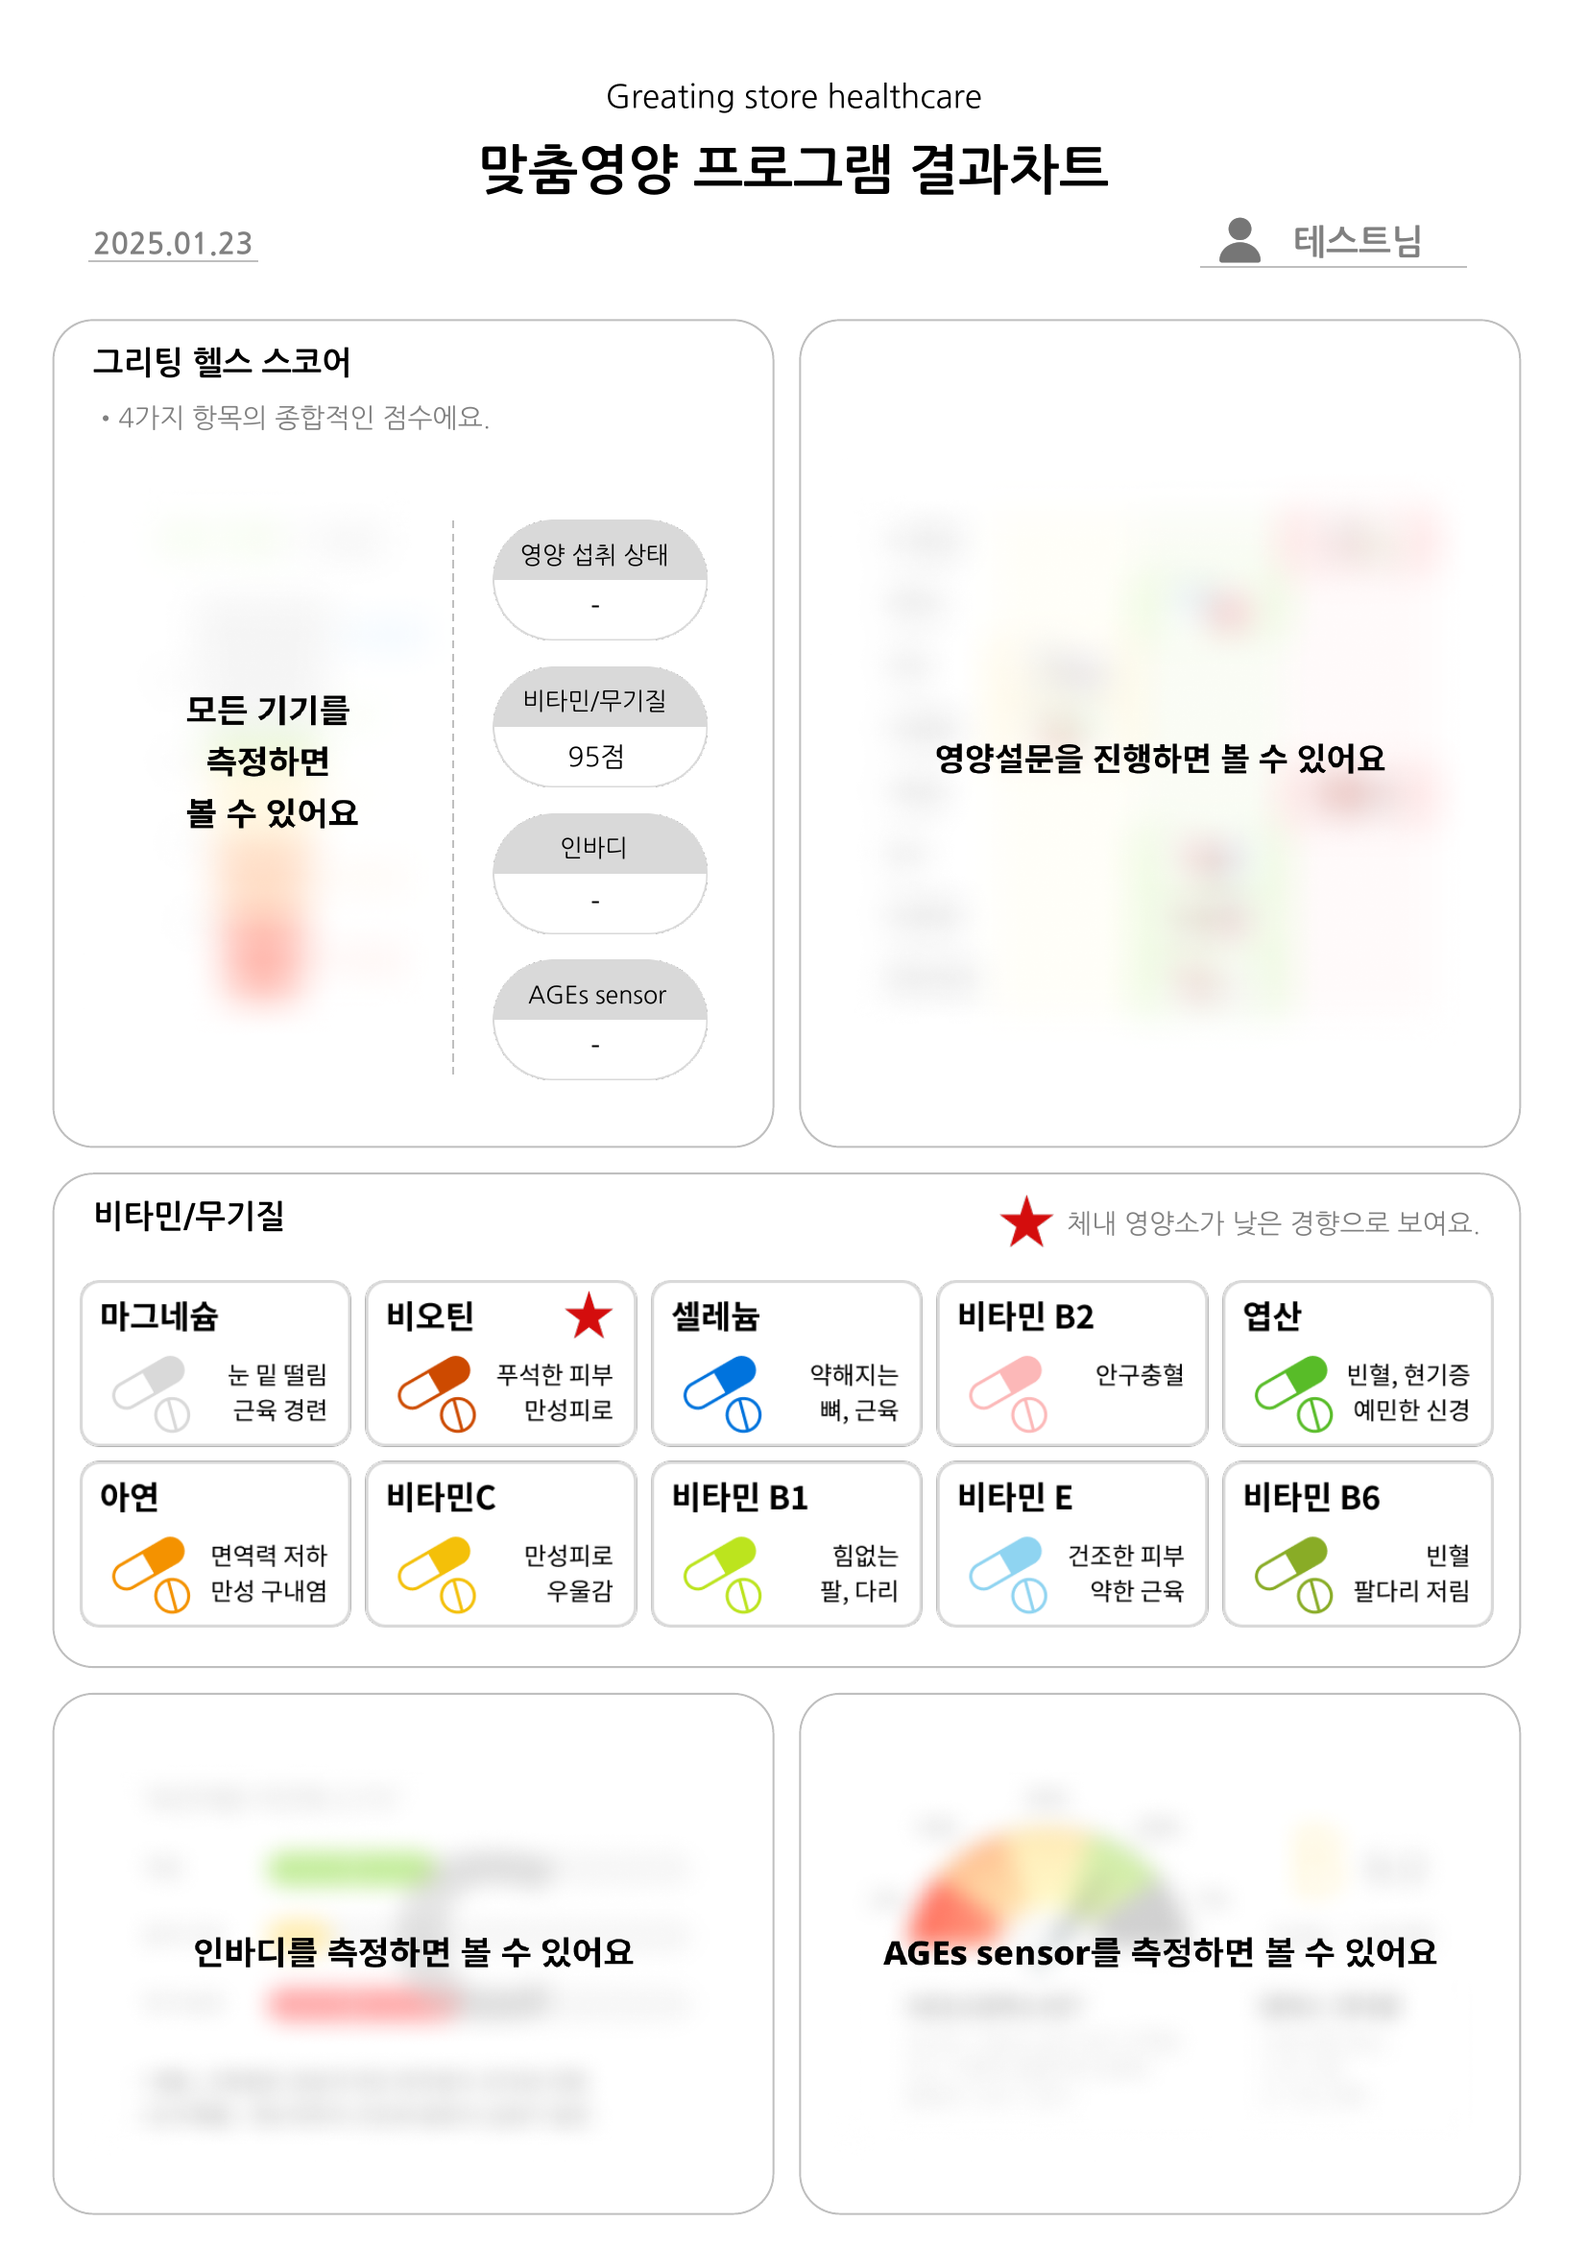
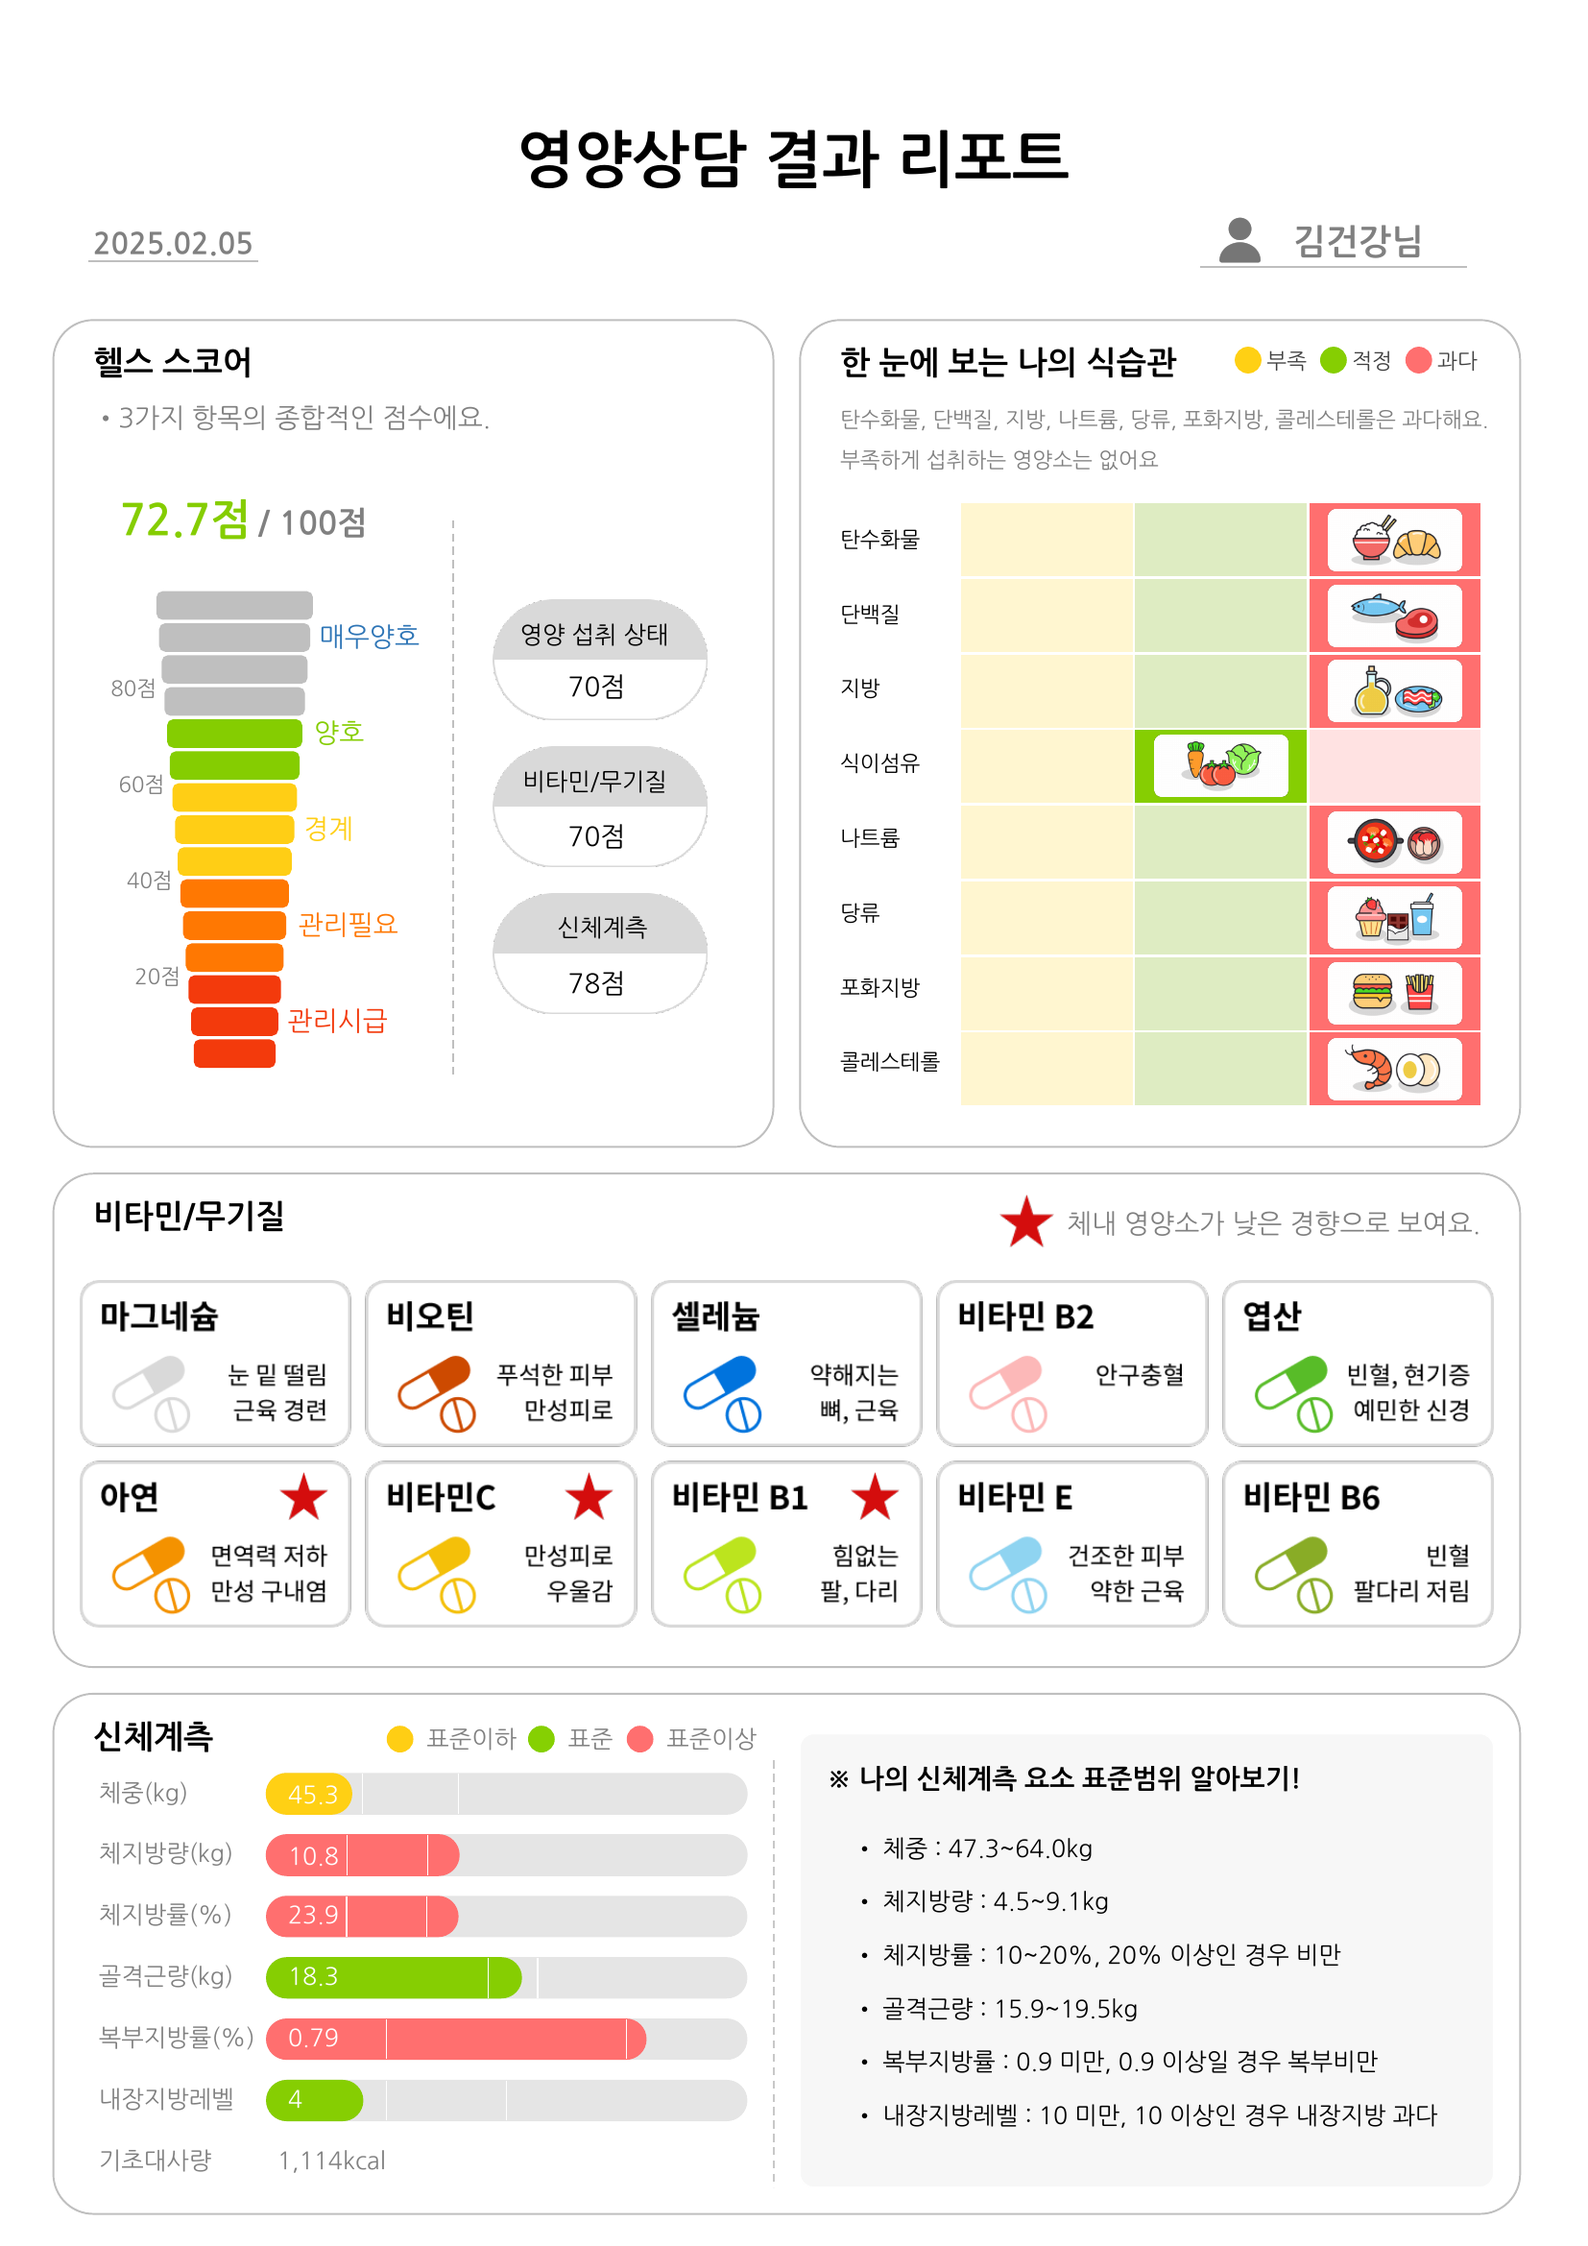
FS인바디 그래프 방식 재변경(25.02.05)

diff --git a/createpdf.py b/createpdf.py
@@ -1290,6 +1290,70 @@ def draw_inbody_home(c,Inbody,UserHeight,Gender,height):
     c.line(172, height - 680, 172, height - 665)
     c.line(172, height - 703, 172, height - 688)  
 
+#인바디 그래프 그리기(인바디 가정용_그래프 변화_02.05 그래프 산출방식 수정)
+def draw_inbody_home2(c,Inbody,UserHeight,Gender,height):
+    if Gender=="남성":
+        SWeight=((UserHeight*UserHeight)/10000)*22
+        fatMax=0.2*Inbody.Weight
+        fatMin=0.1*Inbody.Weight
+    elif Gender=="여성":
+        SWeight=((UserHeight*UserHeight)/10000)*21
+        fatMax=0.28*Inbody.Weight
+        fatMin=0.18*Inbody.Weight
+
+    weightP=Inbody.Weight/SWeight*100
+
+    c.setFillColorRGB(0.9, 0.9, 0.9)
+    c.setStrokeColorRGB(0.9, 0.9, 0.9)
+    c.roundRect(100,height-680, 180, 15,7.5,fill=1)
+    c.roundRect(100,height-703, 180, 15,7.5,fill=1)
+
+    weightW=max(0,180*(weightP-55)/150)
+
+    if weightP<=85 :
+        c.setFillColorRGB(1,208/255,20/255)
+        c.setStrokeColorRGB(1,208/255,20/255)
+        c.roundRect(100,height-680, weightW, 15,7.5,fill=1)
+
+    if 85<weightP<115 :
+        c.setFillColorRGB(134/255,206/255,2/255)
+        c.setStrokeColorRGB(134/255,206/255,2/255)
+        c.roundRect(100,height-680, weightW, 15,7.5,fill=1)
+
+    if 115<=weightP :
+        c.setFillColorRGB(1,111/255,111/255)
+        c.setStrokeColorRGB(1,111/255,111/255)
+        c.roundRect(100,height-680, weightW, 15,7.5,fill=1)   
+    
+    fatW=max(0,180*(Inbody.BodyFat)/(Inbody.Weight-Inbody.SkeletalMuscle))
+
+    if Inbody.BodyFat<=fatMin :
+        c.setFillColorRGB(134/255,206/255,2/255)
+        c.setStrokeColorRGB(134/255,206/255,2/255)
+        c.roundRect(100,height-703, fatW, 15,7.5,fill=1)
+
+    if fatMin<Inbody.BodyFat<fatMax :
+        c.setFillColorRGB(134/255,206/255,2/255)
+        c.setStrokeColorRGB(134/255,206/255,2/255)
+        c.roundRect(100,height-703, fatW, 15,7.5,fill=1)
+
+    if fatMax<=Inbody.BodyFat :
+        c.setFillColorRGB(1,111/255,111/255)
+        c.setStrokeColorRGB(1,111/255,111/255)
+        c.roundRect(100,height-703, fatW, 15,7.5,fill=1)       
+
+    c.setFillColorRGB(1,1,1)
+    c.drawString(108,height-676,str(Inbody.Weight))    
+    c.drawString(108,height-699,str(Inbody.BodyFat))
+
+    c.setLineWidth(0.5)
+    c.setStrokeColorRGB(1,1,1)
+    c.line(136, height - 680, 136, height - 665)
+    c.line(((fatMin*180)/(Inbody.Weight-Inbody.SkeletalMuscle))+100, height - 703, ((fatMin*180)/(Inbody.Weight-Inbody.SkeletalMuscle))+100, height - 688)
+    
+    c.line(172, height - 680, 172, height - 665)
+    c.line(((fatMax*180)/(Inbody.Weight-Inbody.SkeletalMuscle))+100, height - 703, ((fatMax*180)/(Inbody.Weight-Inbody.SkeletalMuscle))+100, height - 688)      
+
 #인바디 그래프 그리기(270이하 추가 그래프_체지방률,골격근량,복부지방률,내장지방레벨)
 def draw_inbody_small_adddetail(c,Inbody,UserHeight,Gender,height):
     BFR=Inbody.BodyFatRatio
@@ -1300,13 +1364,13 @@ def draw_inbody_small_adddetail(c,Inbody,UserHeight,Gender,height):
     if Gender=="남성":
         BFRmax=20
         BFRmin=10
-        SMMmax=8*UserHeight*UserHeight/10000
-        SMMmin=7*UserHeight*UserHeight/10000
+        SMMmax=7.7*UserHeight*UserHeight/10000
+        SMMmin=6.3*UserHeight*UserHeight/10000
     else:
         BFRmax=28
         BFRmin=18
-        SMMmax=6.7*UserHeight*UserHeight/10000
-        SMMmin=5.7*UserHeight*UserHeight/10000    
+        SMMmax=6.27*UserHeight*UserHeight/10000
+        SMMmin=5.13*UserHeight*UserHeight/10000    
     WHRmax=75
     WHRmin=25
     VFLmax=10
@@ -1329,8 +1393,8 @@ def draw_inbody_small_adddetail(c,Inbody,UserHeight,Gender,height):
     Red=(1,111/255,111/255)
 
     if BFR<BFRmin :
-        c.setFillColorRGB(*Yellow)
-        c.setStrokeColorRGB(*Yellow)
+        c.setFillColorRGB(*Green)
+        c.setStrokeColorRGB(*Green)
         c.roundRect(100,height-726, BFRwidth, 15,7.5,fill=1)
 
     if BFRmin<=BFR<=BFRmax :
@@ -1361,8 +1425,8 @@ def draw_inbody_small_adddetail(c,Inbody,UserHeight,Gender,height):
 
     
     if WHR<WHRmin :
-        c.setFillColorRGB(*Yellow)
-        c.setStrokeColorRGB(*Yellow)
+        c.setFillColorRGB(*Green)
+        c.setStrokeColorRGB(*Green)
         c.roundRect(100,height-772, WHRwidth, 15,7.5,fill=1)
 
     if WHRmin<=WHR<=WHRmax :
@@ -1520,7 +1584,7 @@ def set_product_cat(Gender,Vitastiq,Agesensor):
         ('면역력', immunS),
         ('근력', muscleS)
         ]
-        
+
         if Agesensor.Rating=="A" or Agesensor.Rating=="B" or Agesensor.Rating==None:
             sorted_variables = sorted(variables, key=lambda x: x[1]) # 오름차순 정렬 (07.09 4시 수정)
             print(sorted_variables)
@@ -2002,11 +2066,11 @@ def create_basic_pdf(Nutrition,Vitastiq,Inbody,Agesensor,Name,Gender,NutriD,Supp
             write_comment_inbodyhome(c,Inbody_cat,height) 
 
             c.setFillColorRGB(1,206/255,20/255)
-            c.circle(170,height-652,5,stroke=0,fill=1)
+            c.circle(150,height-652,5,stroke=0,fill=1)
             c.setFillColorRGB(134/255,208/255,2/255)
-            c.circle(210,height-652,5,stroke=0,fill=1)
+            c.circle(203,height-652,5,stroke=0,fill=1)
             c.setFillColorRGB(1,111/255,111/255)
-            c.circle(250,height-652,5,stroke=0,fill=1)
+            c.circle(240,height-652,5,stroke=0,fill=1)
 
         else:    
             c.drawString(35,height-655,"인바디")  
@@ -2026,9 +2090,9 @@ def create_basic_pdf(Nutrition,Vitastiq,Inbody,Agesensor,Name,Gender,NutriD,Supp
             draw_inbody_small(c,Inbody,Nutrition.UserHeight,Gender,height)
             draw_alpha(c,Inbody_cat,height)
         elif Store=="FS":  # 시작: -675 / 간격: 23
-            c.drawString(180,height-655,'부족')
-            c.drawString(220,height-655,'적정')
-            c.drawString(260,height-655,'과다')
+            c.drawString(160,height-655,'표준이하')
+            c.drawString(213,height-655,'표준')
+            c.drawString(250,height-655,'표준이상')
             c.drawString(37,height-675,'체중(kg)')
             c.drawString(37,height-698,'체지방량(kg)')
             c.drawString(37,height-721,'체지방률(%)')
@@ -2037,7 +2101,7 @@ def create_basic_pdf(Nutrition,Vitastiq,Inbody,Agesensor,Name,Gender,NutriD,Supp
             c.drawString(37,height-790,'내장지방레벨')
             c.drawString(37,height-813,'기초대사량')
             c.drawString(104,height-813,str(format(Inbody.BMR,','))+"kcal") 
-            draw_inbody_home(c,Inbody,Nutrition.UserHeight,Gender,height)
+            draw_inbody_home2(c,Inbody,Nutrition.UserHeight,Gender,height)
             draw_inbody_small_adddetail(c,Inbody,Nutrition.UserHeight,Gender,height)
         else:    
             c.drawString(37,height-705,'체중')
@@ -2049,21 +2113,29 @@ def create_basic_pdf(Nutrition,Vitastiq,Inbody,Agesensor,Name,Gender,NutriD,Supp
     #-------------- part5 Age sensor or Inbody --------------
     # FS용 분기 생성(24.12.12)
     if Store=="FS":
-        c.setFillColorRGB(0, 0, 0)
-        c.setFont(boldfont, 12)
-        c.drawString(300,height-655,"체형분석")
-
         c.setFillColorRGB(0.97, 0.97, 0.97)
-        c.roundRect(300,height-813,260,100,5,fill=1)
+        c.roundRect(300,height-820,260,170,5,fill=1)
 
         c.setFont(boldfont, 10)
         c.setFillColorRGB(0, 0, 0)
-        c.drawString(310,height-735,'※ 신체계측 결과 분석 기준')
+        c.drawString(310,height-670,'※ 나의 신체계측 요소 표준범위 알아보기!')
 
         c.setFont(mainfont, 9)
-        c.drawString(320,height-756,'• 체지방률 : 남성 15%, 여성 23% 이하일 경우 표준')
-        c.drawString(320,height-776,'• 복부지방률 : 남성 0.9, 여성 0.85 이상일 경우 복부비만')
-        c.drawString(320,height-796,'• 내장지방레벨 : 5~10일 경우 표준')
+
+        if Gender=="남성":
+            c.drawString(320,height-696,f'• 체중 : {round(Nutrition.UserHeight*Nutrition.UserHeight/10000*22*0.85,1)}~{round(Nutrition.UserHeight*Nutrition.UserHeight/10000*22*1.15,1)}kg') 
+            c.drawString(320,height-716,f'• 체지방량 : {round(Inbody.Weight*0.1,1)}~{round(Inbody.Weight*0.2,1)}kg')
+            c.drawString(320,height-736,'• 체지방률 : 10~20%, 20% 이상인 경우 비만')
+            c.drawString(320,height-756,f'• 골격근량 : {round(Nutrition.UserHeight*Nutrition.UserHeight/10000*6.3,1)}~{round(Nutrition.UserHeight*Nutrition.UserHeight/10000*7.7,1)}kg')
+            c.drawString(320,height-776,'• 복부지방률 : 0.9 미만, 0.9 이상일 경우 복부비만')
+        else:    
+            c.drawString(320,height-696,f'• 체중 : {round(Nutrition.UserHeight*Nutrition.UserHeight/10000*21*0.85,1)}~{round(Nutrition.UserHeight*Nutrition.UserHeight/10000*21*1.15,1)}kg') 
+            c.drawString(320,height-716,f'• 체지방량 : {round(Inbody.Weight*0.18,1)}~{round(Inbody.Weight*0.28,1)}kg')
+            c.drawString(320,height-736,'• 체지방률 : 18~28%, 28% 이상일 경우 비만')
+            c.drawString(320,height-756,f'• 골격근량 : {round(Nutrition.UserHeight*Nutrition.UserHeight/10000*5.13,1)}~{round(Nutrition.UserHeight*Nutrition.UserHeight/10000*6.27,1)}kg')
+            c.drawString(320,height-776,'• 복부지방률 : 0.85 미만, 0.85 이상일 경우 복부비만')
+            
+        c.drawString(320,height-796,'• 내장지방레벨 : 10 미만, 10 이상인 경우 내장지방 과다')
 
         # 인바디 영역 증가로 인한 영역 분리선
         c.setStrokeColorRGB(200/255,200/255,200/255)
@@ -2409,14 +2481,14 @@ def create_basic_pdf(Nutrition,Vitastiq,Inbody,Agesensor,Name,Gender,NutriD,Supp
 
 
 # PDF 생성 테스트용
-'''if __name__ == "__main__":
+if __name__ == "__main__":
     Nutri=Nutrition(EatScore=70, Carb="과다", Protein="과다", Fat="과다", Fiber="적정", Sodium="과다", Sugar="과다", SatFat="과다", Cholesterol="과다",UserHeight=159)
     Vita=Vitastiq(Unused=False,Biotin="", VitC="낮음", Mg="", VitB1="낮음", VitB2="", Zn="낮음", Se="", VitB6="", VitE="", Folate="")
     Inbo=Inbody(InbodyScore=78,Weight=45.3,BodyFat=10.8,FatFree=0,ApproWeight=0,WeightMax=0,MuscleMax=0,FatMax=0,Recomcal=0,SkeletalMuscle=18.3,BodyFatRatio=23.9,WaistHipRatio=0.79,VisceralFatLevel=4,BMR=1114)
     Age=Agesensor(Rating="B",Rank=34)
     NutriD=NutritionDetail(CarbH=324.3,CarbV=74.9,ProteinL=34.9,ProteinV=19,FatH=66.5,FatV=22.6,FiberL=23.9,FiberV=8,SodiumH=2300,SodiumV=774,SugarH=50,SugarV=20.6,SatFatH=15.5,SatFatV=3.7,CholesterolH=300,CholesterolV=78)
     Supple=Supplements(sup1="추천 영양제 1번",sup2="추천 영양제 2번",sup3="추천 영양제 3번",sup4="추천 영양제 4번",inter1="근력",inter2="소화기/장건강",inter3="면역력")
-    create_basic_pdf(Nutri,Vita,Inbo,Age,"김건강","여성",NutriD,Supple,"FS","활동적",24,'표준체중 허약형')'''
+    create_basic_pdf(Nutri,Vita,Inbo,Age,"김건강","남성",NutriD,Supple,"FS","활동적",24,'표준체중 허약형')
 
 # PDF 생성 테스트용2
 '''if __name__ == "__main__":
@@ -2429,11 +2501,11 @@ def create_basic_pdf(Nutrition,Vitastiq,Inbody,Agesensor,Name,Gender,NutriD,Supp
     create_basic_pdf(Nutri,Vita,Inbo,Age,"김건강","여성",NutriD,Supple,"FS","활동적",24,'과체중 비만형')'''    
 
 # PDF 생성 테스트용3
-if __name__ == "__main__":
+'''if __name__ == "__main__":
     Nutri=Nutrition(EatScore=70, Carb="과다", Protein="과다", Fat="과다", Fiber="적정", Sodium="과다", Sugar="과다", SatFat="과다", Cholesterol="과다",UserHeight=174)
     Vita=Vitastiq(Unused=False,Biotin="", VitC="낮음", Mg="", VitB1="낮음", VitB2="", Zn="낮음", Se="", VitB6="", VitE="", Folate="")
     Inbo=Inbody(InbodyScore=78,Weight=70.7,BodyFat=12.8,FatFree=0,ApproWeight=0,WeightMax=0,MuscleMax=0,FatMax=0,Recomcal=0,SkeletalMuscle=50.7,BodyFatRatio=32.8,WaistHipRatio=0.83,VisceralFatLevel=4,BMR=1620)
     Age=Agesensor(Rating="B",Rank=34)
     NutriD=NutritionDetail(CarbH=324.3,CarbV=74.9,ProteinL=34.9,ProteinV=19,FatH=66.5,FatV=22.6,FiberL=23.9,FiberV=8,SodiumH=2300,SodiumV=774,SugarH=50,SugarV=20.6,SatFatH=15.5,SatFatV=3.7,CholesterolH=300,CholesterolV=78)
     Supple=Supplements(sup1="추천 영양제 1번",sup2="추천 영양제 2번",sup3="추천 영양제 3번",sup4="추천 영양제 4번",inter1="근력",inter2="소화기/장건강",inter3="면역력")
-    create_basic_pdf(Nutri,Vita,Inbo,Age,"김건강","여성",NutriD,Supple,"FS","활동적",24,'과체중 비만형')
+    create_basic_pdf(Nutri,Vita,Inbo,Age,"김건강","여성",NutriD,Supple,"FS","활동적",24,'과체중 비만형')'''
